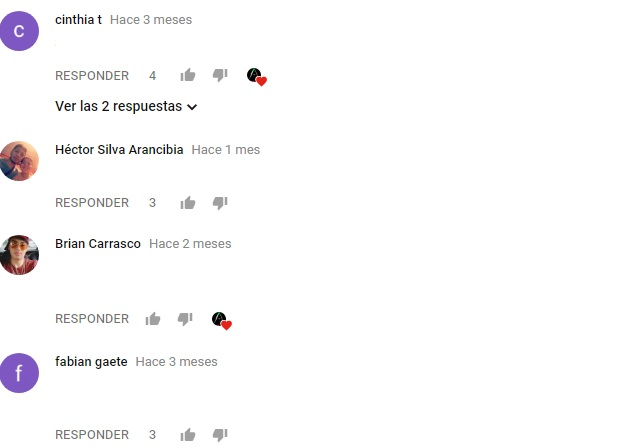
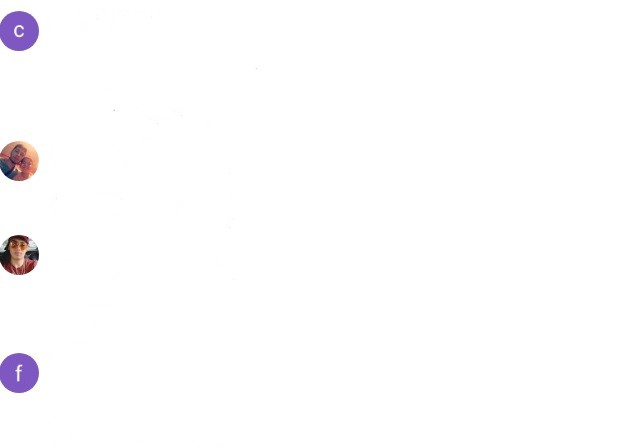
cambios

diff --git a/css/ejercicios de css parte 2/ejercicio7/estilo.css b/css/ejercicios de css parte 2/ejercicio7/estilo.css
@@ -2,34 +2,209 @@
 
 
 .imagen1{
+    display: flex;
+    flex-direction: column;
     width: 1200px;
-    height: 500px;
+    height: 300px;
     
 }
 
 
+
 .p1{
     position: relative;
-    bottom: 480px;
-    left: 100px;
+    bottom: 880px;
+    height: 100px;
+    left: 110px;
+    font-family: Arial, Helvetica, sans-serif;
+    font-weight: 12px;
    
+   
+}
+
+.n1{
+    position: relative;
+    bottom: 850px;
+    height: 100px;
+    left: 110px;
+    font-family: Arial, Helvetica, sans-serif;
+    font-weight: 22px;
    
 }
 
 .p2{
     position: relative;
-    bottom: 370px;
-    left: 110px;  
+    bottom: 958px;
+    height: 100px;
+    left: 200px;
+    font-family: Arial, Helvetica, sans-serif;
+    font-weight: 12px;
 }
 
+
 .p3{
+    color: gray;
+    font-family: Arial, Helvetica, sans-serif;
+    font-weight: 12px;
     position: relative;
-    bottom: 300px;
-    left: 100px;   
+    bottom: 950px;
+    height: 100px;
+    left: 100px;
+}
+
+.em1{
+    background-color: black;
+    position: relative;
+    bottom: 985px;
+    left: 300px;
+    border-radius: 50%;
+    width: 20px;
+    height: 20px;
 }
 
 .p4{
+    color: black;
+    font-family: Arial, Helvetica, sans-serif;
+    font-weight: 12px;
     position: relative;
-    bottom: 220px;
-    left: 100px;     
+    bottom: 1020px;
+    height: 100px;
+    left: 102px;
+}
+
+
+
+.n2{
+    position: relative;
+    bottom: 50px;
+    height: 100px;
+    left: 110px;
+    font-family: Arial, Helvetica, sans-serif;
+    font-weight: 22px;
+}
+
+
+.p5{
+    position: relative;
+    bottom: 170px;
+    height: 100px;
+    left: 290px;
+    font-family: Arial, Helvetica, sans-serif;
+    font-weight: 12px;
+}
+
+
+.p6{
+    
+        position: relative;
+        bottom: 248px;
+        height: 100px;
+        left: 100px;
+        font-family: Arial, Helvetica, sans-serif;
+        font-weight: 12px;
+    
+    
+}
+
+
+.p7{
+    color: black;
+    font-family: Arial, Helvetica, sans-serif;
+    font-weight: 12px;
+    position: relative;
+    bottom: 330px;
+    height: 100px;
+    left: 102px;  
+}
+
+.n3{
+    position: relative;
+    bottom: 340px;
+    height: 100px;
+    left: 110px;
+    font-family: Arial, Helvetica, sans-serif;
+    font-weight: 22px;
+}
+
+
+.p8{
+    position: relative;
+    bottom: 460px;
+    height: 100px;
+    left: 240px;
+    font-family: Arial, Helvetica, sans-serif;
+    font-weight: 12px;
+}
+
+.p9{
+    position: relative;
+    bottom: 540px;
+    height: 100px;
+    left: 100px;
+    font-family: Arial, Helvetica, sans-serif;
+    font-weight: 12px;
+
+}
+
+.p10{
+    
+        color: gray;
+        font-family: Arial, Helvetica, sans-serif;
+        font-weight: 12px;
+        position: relative;
+        bottom: 620px;
+        height: 100px;
+        left: 100px;
+    
+    
+}
+
+.em2{
+    background-color: black;
+    position: relative;
+    bottom: 735px;
+    left: 290px;
+    border-radius: 50%;
+    width: 20px;
+    height: 20px;
+}
+
+.n4{
+    position: relative;
+    bottom: 620px;
+    height: 100px;
+    left: 110px;
+    font-family: Arial, Helvetica, sans-serif;
+    font-weight: 22px;
+}
+
+
+.p11{
+    position: relative;
+    bottom: 740px;
+    height: 100px;
+    left: 240px;
+    font-family: Arial, Helvetica, sans-serif;
+    font-weight: 12px;
+}
+
+.p12{
+    position: relative;
+    bottom: 820px;
+    height: 100px;
+    left: 100px;
+    font-family: Arial, Helvetica, sans-serif;
+    font-weight: 12px;
+
+}
+
+
+.p13{
+        color: gray;
+        font-family: Arial, Helvetica, sans-serif;
+        font-weight: 12px;
+        position: relative;
+        bottom: 900px;
+        height: 100px;
+        left: 100px;
 }

diff --git a/css/ejercicios de css parte 2/ejercicio7/index.html b/css/ejercicios de css parte 2/ejercicio7/index.html
@@ -9,21 +9,29 @@
 <body>
     
 
+  <div class="imagen1">
+  <img  src="imagen1.jpg" alt="comentarios">
+    <h4 class="n1">cinthia t</h4>
+    <p class="p1" >solo quiero decir que te amooooooooooooooooooooo!!!!</p>
+    <p class="p2">hace 3 meses</p>
+    <p class="p3">responder &nbsp;&nbsp;&nbsp;  4  &nbsp; &nbsp; &#128077;  &nbsp;  &#128078;  &nbsp;  <div class="em1">&#128147;</div></p>
+    <p class="p4">ver las 2 respuestas v</p>
+</div>
+  <h4 class="n2">hector silva arancibia</h4>
+  <p class="p5">hace 1 mes </p>
+  <p class="p6">buenas pero dejas muy poco de cada tema, saludos</p>
+  <p class="p7">responder &nbsp;&nbsp;&nbsp;  3  &nbsp; &nbsp; &#128077;  &nbsp;  &#128078;  &nbsp; </p>
 
-  <img class="imagen1" src="imagen1.jpg" alt="comentarios">  
+  <h4 class="n3">brian carrasco</h4>
+  <p class="p8">hace 2 meses </p>
+  <p class="p9">super bueno el classic proyect este a esta hora compartiendo con mi madre los grandes exitos de este mix </p>
+  <p class="p10">responder &nbsp;&nbsp;&nbsp;    &nbsp; &nbsp; &#128077;  &nbsp;  &#128078;  &nbsp;  <div class="em2">&#128147;</div></p>
 
+  <h4 class="n4">fabian gaete</h4>
+  <p class="p11">hace 3 meses </p>
+  <p class="p12">este proyecto lo compre como hace 11 años atras, es de nicolas escobar el hizo todos los classic proyect</p>
+  <p class="p13">responder &nbsp;&nbsp;&nbsp;  3  &nbsp; &nbsp; &#128077;  &nbsp;  &#128078;  &nbsp; </p>
 
-  <p class="p1">solo quiero decirte que te amooooooooooooooooooooooooooooooo!!!!</p>
-
-  <p class="p2">buenas pero dejas muy poco de cada tema, saludos</p>
-
-  <p class="p3">super bueno el classic proyect este a esta hora compartiendo con mi madre los <br>
-   grandes exitos de este mix 
-  </p>
-
-  <p class="p4">este proyecto lo compre como hace 11 años atras,es de nicolas escobar el hizo todos <br>
-  los classic proyect 
-  </p>
 
 </body>
 </html>
